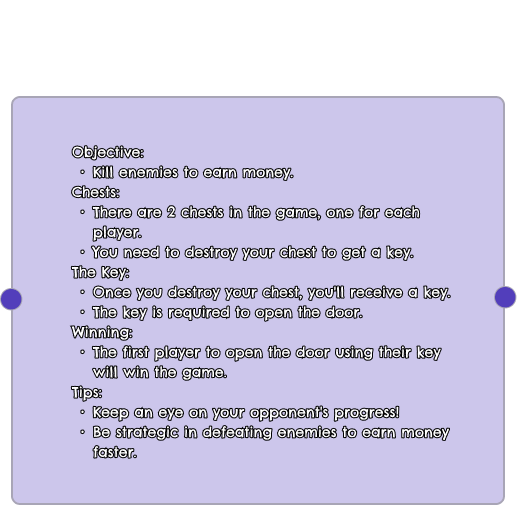
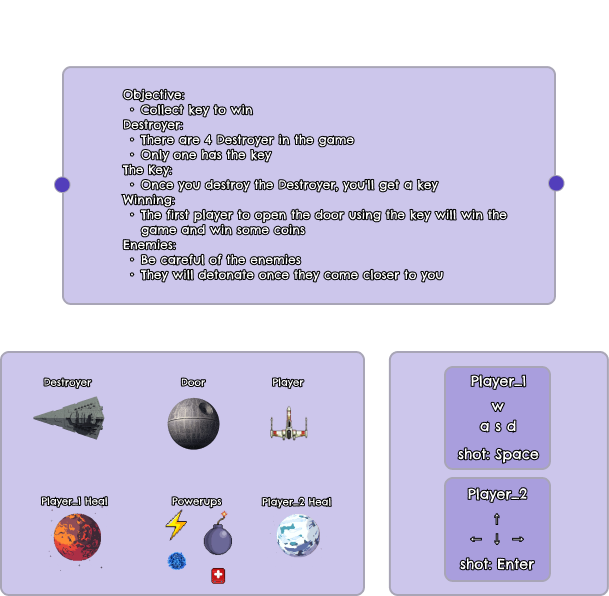
- changed rules - changed pause

diff --git a/game.py b/game.py
@@ -327,22 +327,41 @@ def execute_game(player1, player2):
 
 def pause_(player, player2):
     screen = pygame.display.set_mode(resolution)
+    background = pygame.image.load("ui/background_2.png")
+    background = pygame.transform.scale(background, (width, height))
 
-    # in order to print something we need to first create a font, create the text and then blit
+    paused = pygame.image.load("ui/paused.png")
 
-    # creating the fonts:
-    corbelfont = pygame.font.SysFont("Corbel", 50)
-    comicsansfont = pygame.font.SysFont("Comic Sans MS", 25)
+    resume = pygame.image.load("ui/resume.png")
+    resume_w, resume_h = resume.get_width(), resume.get_height()
+    resume_hover = pygame.image.load("ui/resume_hover.png")
 
-    # creating the rendered texts for the credits
-    pause_text = comicsansfont.render("PAUSED", True, white)
-    exit_text = comicsansfont.render("exit", True, white)
+    exit_btn = pygame.image.load("ui/exit.png")
+    exit_btn_w, exit_btn_h = exit_btn.get_width(), exit_btn.get_height()
+    exit_btn_hover = pygame.image.load("ui/exit_hover.png")
 
-    # main loop to detect user input and display the credits
     # pause = True
     while True:
         # getting the position of the users mouse
+        screen.blit(background, (0,0))
+        screen.blit(paused, (250, 110))
         mouse = pygame.mouse.get_pos()
+
+        if 270 <= mouse[0] <= 270 + resume_w and 280 <= mouse[1] <= 280 + resume_h:
+
+            screen.blit(resume_hover, (270 - (resume_hover.get_width() - resume_w) // 2,
+                                       280 - (resume_hover.get_height() - resume_h) // 2))
+        else:
+
+            screen.blit(resume, (270, 280))
+
+        if 270 <= mouse[0] <= 270 + exit_btn_w and 390 <= mouse[1] <= 390 + exit_btn_h:
+
+            screen.blit(exit_btn_hover, (270 - (exit_btn_hover.get_width() - exit_btn_w) // 2,
+                                       390 - (exit_btn_hover.get_height() - exit_btn_h) // 2))
+        else:
+
+            screen.blit(exit_btn, (270, 390))
 
         for ev in pygame.event.get():
 
@@ -352,34 +371,17 @@ def pause_(player, player2):
 
             # checking if the user clicked the back button
             if ev.type == pygame.MOUSEBUTTONDOWN:
-                if 450 <= mouse[0] <= 590 and 600 <= mouse[1] <= 660:
+                if 270 <= mouse[0] <= 270 + resume_w and 280 <= mouse[1] <= 280 + resume_h:
                     return
 
             if ev.type == pygame.MOUSEBUTTONDOWN:
-                if 450 <= mouse[0] <= 590 and 500 <= mouse[1] <= 560:
+                if 270 <= mouse[0] <= 270 + exit_btn_w and 390 <= mouse[1] <= 390 + exit_btn_h:
                     player.save_player_data("save_player_data.json")
                     player2.save_player_data("save_player_2_data.json")
                     sounds.background_sound.stop()
                     return 'exit'
 
-        # display my screen
-        # we can fill the screen with an image instead of deep_black
-        screen.fill(deep_black)
 
-        # displaying our texts
-        screen.blit(pause_text, (720 // 2, 720 // 2))
-
-        # drawing and displaying the back button
-        pygame.draw.rect(screen, dark_red, [450, 600, 140, 60])
-        pygame.draw.rect(screen, dark_red, [450, 500, 140, 60])
-
-        back_text = corbelfont.render("back", True, white)
-        exit_text = corbelfont.render("exit", True, white)
-
-        back_rect = back_text.get_rect(center=(450 + 140 // 2, 600 + 60 // 2))
-        exit_rect = exit_text.get_rect(center=(450 + 140 // 2, 500 + 60 // 2))
-        screen.blit(back_text, back_rect)
-        screen.blit(exit_text, exit_rect)
 
         # updating the display
         pygame.display.update()

diff --git a/interface.py b/interface.py
@@ -255,7 +255,7 @@ def rules_():
     cont = True
     while cont:
         screen.blit(background, (0, 0))  # 0,0 will fill the entire screen
-        screen.blit(rules,(100,100)) # putting rules img on the screen
+        screen.blit(rules,(60,70)) # putting rules img on the screen
 
         # getting the position of the users mouse
         mouse = pygame.mouse.get_pos()
